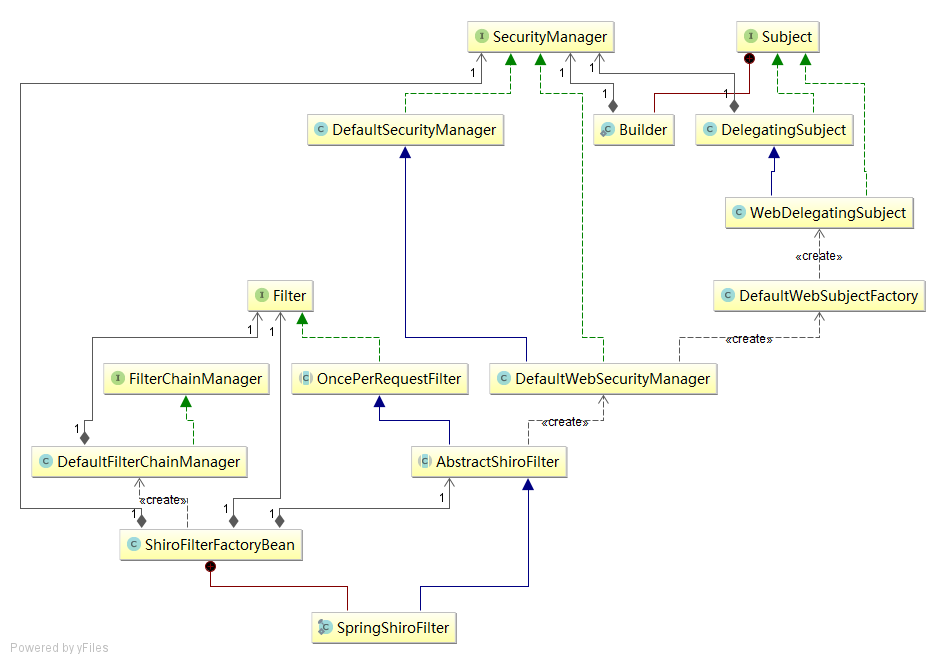
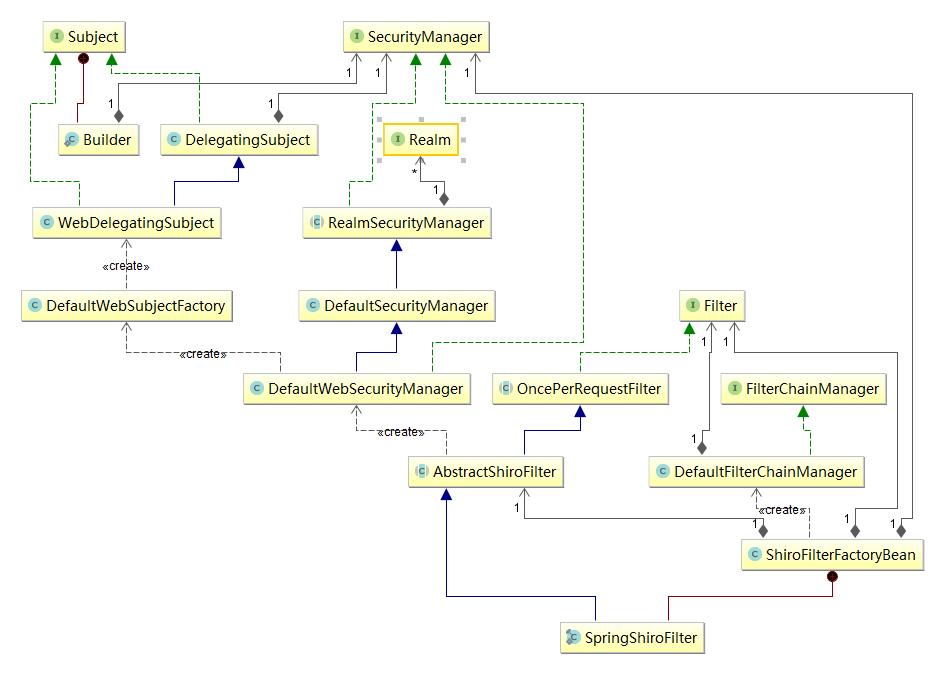
完善《Shiro 源码学习》

diff --git a/_posts/2019-05-30-shiro-learning-1.md b/_posts/2019-05-30-shiro-learning-1.md
@@ -1,6 +1,6 @@
 ---
 layout: post
-title: "Shiro 源码学习-认证授权"
+title: "Shiro 源码学习-01"
 description: "shiro 认证授权及Realm和相关Filter的学习"
 category: diary
 tags: [Java,Lib]
@@ -8,87 +8,110 @@ tags: [Java,Lib]
 
 ## 简介
 
+Apache Shiro是Java的一个安全框架。目前，使用Apache Shiro的人越来越多，对比Spring Security，可能没有Spring Security做的功能强大，但是在实际工作时可能并不需要那么复杂的东西，所以使用小而简单的Shiro就足够了。
+
+Shiro可以帮助我们完成：认证、授权、加密、会话管理、与Web集成、缓存等。这不就是我们想要的嘛，而且Shiro的API也是非常简单；其基本功能点如下图所示：
+
+![shiro基本功能](http://dl2.iteye.com/upload/attachment/0093/9788/d59f6d02-1f45-3285-8983-4ea5f18111d5.png)
+
+下图是从应用程序角度观察Shiro完成的工作：
+
+![shiro 调用链](http://dl2.iteye.com/upload/attachment/0093/9790/5e0e9b41-0cca-367f-8c87-a8398910e7a6.png)
+
+可以看到：应用代码直接交互的对象是Subject，也就是说Shiro的对外API核心就是`Subject`。
+`SecurityManager`管理`Subject`并执行相关安全操作。
+`Realm`则负责提供安全相关的数据。
+
+下面会逐一介绍
+
 
 ## Realm
 
-Realm
-AuthenticatingRealm
-AuthorizingRealm
-JdbcRealm
-JndiLdapRealm
-AbstractLdapRealm
-ActiveDirectoryRealm
+`Realm` 是 Shiro 的一个重要抽象概念。
+它向Shiro提供安全数据（如用户、凭证、角色、权限），来确认身份是否合法、是否能进行操作等。
 
-UML
+
+`Realm`相关类的 UML 如下图:
+
 ![Realm相关类UML](http://www.xyula.com/assets/images/shiro-realm.png)
+
+* `Realm` 基接口，提供获取认证信息(用户、凭证)的方法
+* `AuthenticatingRealm` 封装了用户的认证过程，通过覆盖其虚方法`doGetAuthenticationInfo`可实现自己的认证信息获取；也可注入`credentialsMatcher`实现自定义的凭证校验，如`HashedCredentialsMatcher`等。
+* `AuthorizingRealm` 封装了角色和权限相关操作，通过覆盖其虚方法`doGetAuthorizationInfo`可获取自定义的授权信息。
+* `JdbcRealm` Shiro 提供的一个数据库相关的`Realm`实现
+* `JndiLdapRealm` Shiro 提供的与 LDAP 相关的`Realm`实现
+* `ActiveDirectoryRealm` Shiro 提供的与活动目录相关的`Realm`实现
+
+* `AuthenticationInfo` 认证信息(用户、凭证)
+* `SaltedAuthenticationInfo` 带盐的认证信息(用户、凭证)
+* `MergableAuthenticationInfo` 可以合并的认证信息(用户、凭证)，用于处理多个`Realm`时，将`AuthenticationInfo`进行合并输出
+* `SimpleAuthenticationInfo` Shiro 提供的(实现了上面两个接口的)一个实现
+
+* `CredentialsMatcher` 凭证验证接口
+* `SimpleCredentialsMatcher`
+* `HashedCredentialsMatcher` 加密凭证验证器，可以通过注入`hashAlgorithmName`来设置加密类型(如：MD5)
+
 
 
 ## 认证
 
-UML
+认证相关类 UML 如下图：
+
 ![认证相关类UML](http://www.xyula.com/assets/images/shiro-auththenticater.png)
 
-Authenticator
-AbstractAuthenticator
-ModularRealmAuthenticator
-AuthenticatingSecurityManager
+* `Authenticator` 认证器，对用户凭证/token进行认证
+* `AbstractAuthenticator` 提供认证监听器，对认证结果进行监听
+* `ModularRealmAuthenticator` Shiro 提供的，真正用于认证的类，将认证过程委托给`Realm`，当有多个`Realm`时，使用了策略模式进行认证。
+* `AuthenticatingSecurityManager` 继承`SecurityManager`，创建`ModularRealmAuthenticator`以提供认证方法。
 
-AuthenticationStrategy
-AbstractAuthenticationStrategy
-AtLeastOneSuccessfulStrategy
-FirstSuccessfulStrategy
-AllSuccessfulStrategy
-
-AuthenticationInfo
-SaltedAuthenticationInfo
-MergableAuthenticationInfo
-SimpleAuthenticationInfo
-
-CredentialsMatcher
-SimpleCredentialsMatcher
-HashedCredentialsMatcher
+* `AuthenticationStrategy` 认证策略模式的接口
+* `AtLeastOneSuccessfulStrategy` Shiro 提供的认证策略之一，默认使用
+* `FirstSuccessfulStrategy` Shiro 提供的认证策略之一
+* `AllSuccessfulStrategy` Shiro 提供的认证策略之一
 
 
 ## 授权
 
-UML
-![认证相关类UML](http://www.xyula.com/assets/images/shiro-authorizer.png)
+授权相关类 UML 如下图：
 
-Authorizer
-ModularRealmAuthorizer
-AuthorizingSecurityManager
+![授权相关类UML](http://www.xyula.com/assets/images/shiro-authorizer.png)
 
-AuthorizationInfo
-SimpleAuthorizationInfo
+* `Authorizer` 鉴权器，对用户-角色或用户-资源进行鉴权，即检查用户是否属于某个角色，或检查用户是否有某项资源的权限
+* `ModularRealmAuthorizer` Shiro 提供的，真正用于鉴权的类，其将鉴权过程委托给`Realm`
+* `AuthorizingSecurityManager` 继承`SecurityManager`，创建`ModularRealmAuthorizer`以提供鉴权方法。
 
-Permission
-WildcardPermission
-PermissionResolver
-WildcardPermissionResolver
+* `AuthorizationInfo` 角色、权限信息
+* `SimpleAuthorizationInfo` Shiro 提供的`AuthorizationInfo`的实现
+
+* `Permission` 权限接口，实现该接口的类可以相互比对是否一致，即鉴别权限是否一致。
+* `WildcardPermission` Shiro 提供的`Permission`的实现，可以对带通配符的权限比对。
+* `PermissionResolver` 将字符串转换为`Permission`对象的接口
+* `WildcardPermissionResolver`
 
 
 ## Filter
 
-UML
-![认证相关类UML](http://www.xyula.com/assets/images/shiro-filter.png)
+Filter相关类 UML 如下图：
 
-Filter
-OncePerRequestFilter
-AdviceFilter
-PathMatchingFilter
-AccessControlFilter
-UserFilter
-AuthenticationFilter
-AuthenticatingFilter
-FormAuthenticationFilter
-AuthorizationFilter
-PermissionsAuthorizationFilter
+![Filter相关类UML](http://www.xyula.com/assets/images/shiro-filter.png)
 
-AbstractShiroFilter
-ShiroFilter
-SpringShiroFilter
+* `Filter` servlet 定义的接口
+* `OncePerRequestFilter` 每个请求只拦截一次
+* `AdviceFilter` 提供类似 AOP 功能
+* `PathMatchingFilter` 提供了基于Ant风格的请求路径匹配功能及拦截器参数解析的功能，如“roles[admin,user]”自动根据“，”分割解析到一个路径参数配置并绑定到相应的路径
+* `AccessControlFilter` 提供了访问控制的基础功能。isAccessAllowed：表示是否允许访问，onAccessDenied：表示当访问拒绝时是否已经处理了
+* `AuthenticationFilter` 需认证`Filter`，若用户未认证，会跳转至指定 URL
+* `AuthenticatingFilter` 认证`Filter`，对认证进行拦截
+* `FormAuthenticationFilter` Shiro 提供的表单认证`Filter`
+* `UserFilter` Shiro 提供的`Filter`，判断是否是登录的用户
+* `AuthorizationFilter` 权限`Filter`，若用户没有权限，会跳转至指定 URL 或返回401
+* `PermissionsAuthorizationFilter` Shiro 提供的权限`Filter`，对是否有权限进行拦截
 
-PathConfigProcessor
+* `AbstractShiroFilter`
+* `ShiroFilter` 是整个Shiro的入口点
+* `SpringShiroFilter` Shiro 针对 spring 提供的`Filter`
+
+* `PathConfigProcessor`
 
 
 ## Subject & SecurityManager
@@ -97,13 +120,13 @@ UML
 ![认证相关类UML](http://www.xyula.com/assets/images/shiro-SecurityManager-Subject.png)
 
 
-* `Subject` 是 shiro 重要的接口
+* `Subject` 是 shiro 重要的接口，对外的API核心
 * `DelegatingSubject` 实现了将`Subject`上大多数的方法委托给`SecurityManager`去处理的。
 * `WebDelegatingSubject` shiro 提供的`Subject`的实现
-* `SecurityManager` 是 shiro 上执行操作的接口
+* `SecurityManager` 是 shiro 上执行所有安全操作的接口，且它管理着所有Subject，并负责与其他组件进行交互。
 * `DefaultSecurityManager`
 * `DefaultWebSecurityManager` shiro 上的一个默认实现，可以向其注入`SessionManager`，以实现 Session 的管理
-* `ShiroFilterFactoryBean` 是shiro 提供给 spring 中需要配置的一个bean，提供`SecurityManager`和自定义`Filter`等的注入，被注入的`SecurityManager`会传递给`SpringShiroFilter`
+* `ShiroFilterFactoryBean` 是shiro 提供给 spring 中需要配置的一个bean，提供`SecurityManager`、`Filter`和`Realm`等的注入，被注入的`SecurityManager`会传递给`SpringShiroFilter`
 * `FilterChainManager` 管理`ShiroFilterFactoryBean`中配置的自定义`Filter`
 * `DefaultFilterChainManager` shiro 上的一个默认实现
 
